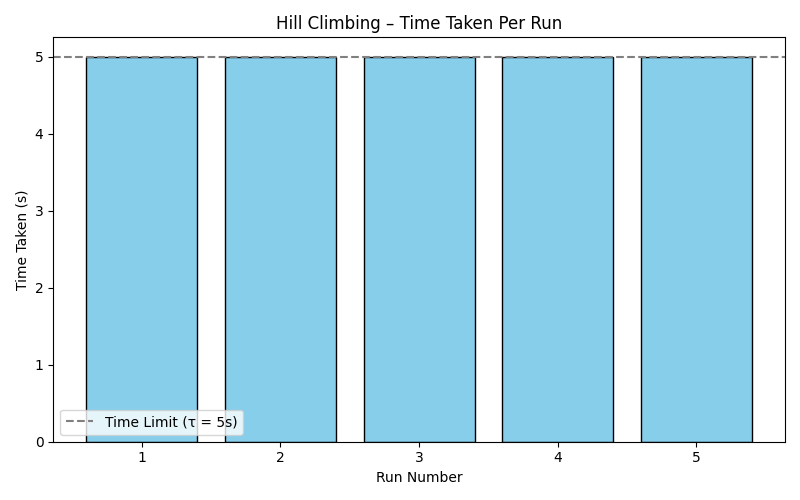
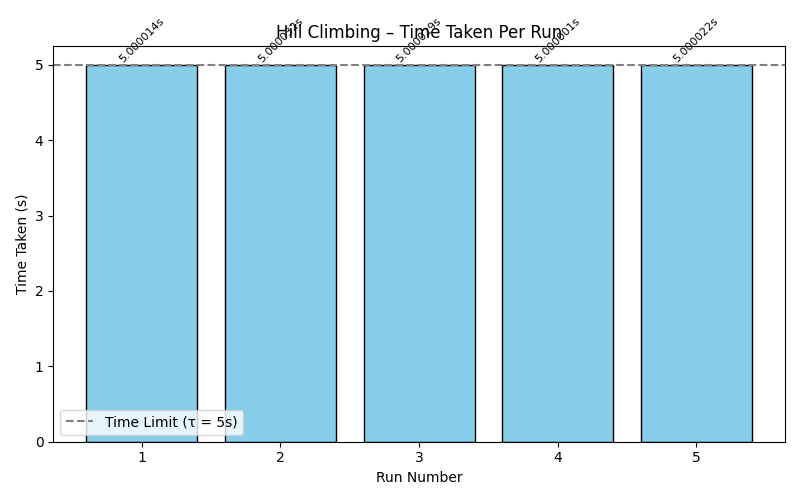
made few changes

diff --git a/TSP/Hill_Climbing/wrapper.py b/TSP/Hill_Climbing/wrapper.py
@@ -33,11 +33,17 @@ def run_multiple_hill_climbing(num_runs=5, tau=600, num_nodes=10):
     avg_time = sum(run_times) / num_runs
     avg_dist = sum(run_distances) / num_runs
 
-    print(f"\nAverage Time: {avg_time:.2f}s")
-    print(f"Average Distance: {avg_dist:.2f}")
+    print(f"\nAverage Time: {avg_time:.6f}s")
+    print(f"Average Distance: {avg_dist:.6f}")
     
     plt.figure(figsize=(8, 5))
-    plt.bar(range(1, num_runs + 1), run_times, color='skyblue', edgecolor='black')
+    bars = plt.bar(range(1, num_runs + 1), run_times, color='skyblue', edgecolor='black')
+
+    for bar, time_val in zip(bars, run_times):
+        height = bar.get_height()
+        plt.text(bar.get_x() + bar.get_width()/2.0, height + 0.01, f"{time_val:.6f}s", 
+                 ha='center', va='bottom', fontsize=8, rotation=45)
+
     plt.axhline(y=tau, color='gray', linestyle='--', label=f'Time Limit (τ = {tau}s)')
     plt.xlabel("Run Number")
     plt.ylabel("Time Taken (s)")
@@ -47,6 +53,7 @@ def run_multiple_hill_climbing(num_runs=5, tau=600, num_nodes=10):
     plt.savefig("hill_climbing_time_plot.png")
     print("Plot saved as 'hill_climbing_time_plot.png'")
     plt.show()
+
 
     if best_history is not None:
         animate_tour(best_node_list, best_history)

diff --git a/TSP/Hill_Climbing/Hill_Climbing.py b/TSP/Hill_Climbing/Hill_Climbing.py
@@ -34,7 +34,7 @@ def hill_climbing_once(env, node_list, time_limit=5):
             history.append(current[:]) 
 
     total_time = time.time() - start_time
-    print(f"Finished in {total_time:.2f} seconds. Best Distance: {best_distance:.2f}")
+    print(f"Finished in {total_time:.6f} seconds. Best Distance: {best_distance:.2f}")
     return current, best_distance, total_time
 
 def animate_tour(node_list, tour_history):
